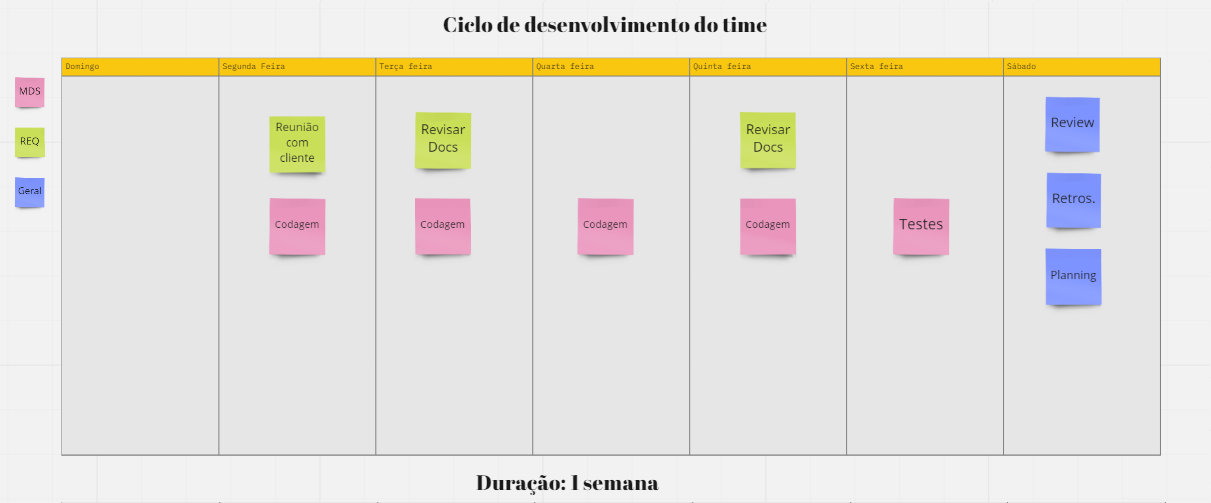
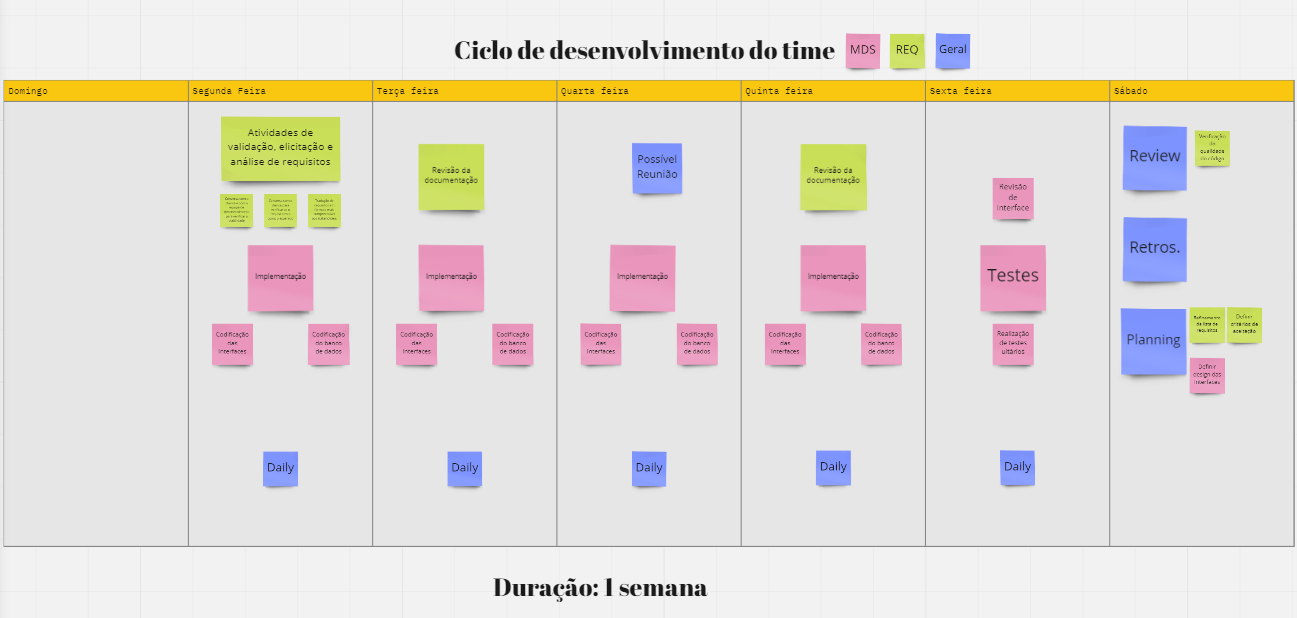
Refatora seção de MVP's e Doc de Visão

diff --git a/docs/visaoProdutoProjeto.md b/docs/visaoProdutoProjeto.md
@@ -111,7 +111,7 @@ O processo da engenharia de requisitos será feito por uma abordagem ágil, onde
 | Atividade                                               | Método               | Ferramenta   | Entrega                          |
 | ------------------------------------------------------- | -------------------- | ------------ | -------------------------------- |
 | Pesquisa sobre o tema do projeto e seu campo de atuação | Pesquisa             | Google       | Conhecimento sobre o produto     |
-| Conversa com o cliente                                  | Entrevista e reunião | Google meets | Lista de requisitos preliminares |
+| Conversa com o cliente para coleta de suas necessidades                               | Entrevista e reunião | Google meets | Lista de requisitos preliminares |
 
 ### 4.2 Análise de Requisitos
 
@@ -128,6 +128,7 @@ O processo da engenharia de requisitos será feito por uma abordagem ágil, onde
 | --------------------------------------------------------------------- | ----------------------- | ------------------------- | ----------------------------------------------------------------------------------------------- |
 | Tradução de requisitos em formato mais compreensível aos stakeholders | Linguagem natural       | Requisitos bem descritos  |
 | Listagem de requisitos encontrados da fase de análise                 | Definição em categorias | GitHub Pages, Google Docs | Lista de requisitos documentados e seus tipos (não funcional e funcional), o Backlog do projeto |
+| Revisão de documentação para encontrar e corrigir possíveis falhas | Reunião | GitHub Pages | Documentação revisada |
 
 ### 4.4 Verificação e Validação de Requisitos
 
@@ -149,11 +150,35 @@ O processo da engenharia de requisitos será feito por uma abordagem ágil, onde
   ![Ciclo Desenvolvimento](./img/ciclo_desenvolvimento.png) 
 <br>
 
-## 5 REFERÊNCIAS BIBLIOGRÁFICAS
+## 5 BACKLOG DO PRODUTO
+
+| EPICO | FEATURE | US |
+| :---  | :--- | :--- |
+| PAULA | (F1) Gerar certificado | (F1US1) *Eu como usuário quero, após a conclusão de todas as atividades, receber um certificado para comprovar minha aprendizagem* |
+| | (F2) Possuir aba de lições | (F2US1) *Eu como usuário quero acessar as lições disponíveis no aplicativo para realizá-las* |
+| | | (F2US2) *Eu como usuário, gostaria de  visualizar o progresso de término das lições do aplicativo para me sentir orientado* |
+| | (F3) Visualizar próprio perfil | (F3US1) *Eu como usuário quero acessar as configurações do aplicativo* |
+| | | (F3US2) *Eu como usuário quero visualizar o meu perfil com todos as recompensas ganhas, dados e certificados* |
+| | (F4) Possuir lembrete/notificações de tarefas | (F4US1) *Eu como usuário, gostaria de receber lembretes com mensagens de motivação* 
+| | | (F4US2) *Eu como usuário, gostaria de receber lembretes para me recordar de realizar as lições*|
+| | (F5) Possuir atividades | (F5US1) *Eu como usuário, gostaria de atividades para las realiza afim de concluir a lição*|
+| | | (F5US2) *Eu como usuário quero acessar as atividades no aplicativo através de uma aba para visualiza-las *|
+| | | (F5US3) *Eu como usuário gostaria atividades de visualizar fotos e descrever palavras corretas para contribuir para com o meu processo de aprendizagem*|
+| | | (F5US4) *Eu como usuário, gostaria de atividades de escrever para contribuir com meu processo de aprendizagem/alfabetização*|
+| | (F6) Realizar Login | (F6US1) *Eu como usuário quero poder recuperar minha senha para voltar a ter acesso à plataforma* |
+| | | (F6US2) *Eu como usuário quero poder fazer login na plataforma com os dados do meu cadastro para ter acesso ao conteúdo do aplicativo*|
+| | (F7) Possuir sistema de recompensas | (F7US1) *Eu como usuário quero receber recompensas dentro do aplicativo diariamente por login*|
+| | | (F7US2) *Eu como usuário quero receber recompensas dentro do aplicativo após a execução de alguma atividade*|
+| | (F8) Realizar Cadastro | (F8US1) *Eu como usuário quero que meu progresso seja salvo para não perder o que já fiz dentro do aplicativo* |
+| | | (F8US2) *Eu como usuário, gostaria de poder me cadastrar para ter acesso ao conteúdo do aplicativo* |
+| | | (F8US3) *Eu como usuário quero poder cadastrar um apelido para se referir a mim* |
+
+
+## 6 REFERÊNCIAS BIBLIOGRÁFICAS
 
 > [1]. Sommerville, Software Engineering, 2004 <br> [2]. P. Bourque, SWEBOK Guide Call for Reviewers, May 2003. <br>  [3]. Ambler, S., Agile Modeling, Wiley, 2002. <br>
 
-## 6 Histórico de Revisão
+## 7 Histórico de Revisão
 
 | Data       | Versão	| Descrição | Autor |
 | ---------- | ------ | --------- | -----
@@ -168,3 +193,4 @@ O processo da engenharia de requisitos será feito por uma abordagem ágil, onde
 | 03/08/2022 | 1.7 | Preenche campos de lições aprendidas e reformula ciclo de desenvolvimento e de ER | Cristian Furtado
 | 03/08/2022 | 1.8 | Reformula as sprints e a matriz de comunicação | Cristian Furtado
 | 11/08/2022 | 1.9 | Refatora o visão retirando as definições das sprints | Cristian Furtado
+| 13/08/2022 | 2.0 | Adiciona o Product Backlog ao docunmento de visão | Cristian Furtado

diff --git a/docs/mvps.md b/docs/mvps.md
@@ -1,12 +1,32 @@
-### MVP1:
-- RF1: Cadastrar usuário
-- RF2: Login de usuário
-- RF3: Realizar (2) lições: Vogais e Consoantes
-- RF4: Visualizar Progresso
-- RF5: Visualizar informações do perfil
+### **MVP1**
 
-### MVP2:
-- RF8: Mostrar notificações no celular
-- RF6: Visualizar recompensas
-- RF3: Realizar (2) lições: Silabas e Palavras
-- RF7: Gerar certificados
+1. (F8) Realizar Cadastro:
+    * (F8US2): Eu como usuário, gostaria de poder me cadastrar para ter acesso ao conteúdo do aplicativo
+    * (F8US3): Eu como usuário quero poder cadastrar um apelido para se referir a mim
+
+2. (F6) Realizar Login:
+    * (F6US2): Eu como usuário quero poder fazer login na plataforma com os dados do meu cadastro para ter acesso ao conteúdo do aplicativo
+
+3. (F2) Possuir abas de lições:
+    * (F2US1): Eu como usuário quero acessar as lições disponíveis no aplicativo para realizá-las (Lições de Vogais e Consoantes)
+    * (F2US2): Eu como usuário, gostaria de visualizar o progresso de término das lições do aplicativo para me sentir orientado
+
+4. (F3) Visualizar Perfil
+    * (F3US2): Eu como usuário quero visualizar o meu perfil com todos as recompensas ganhas, dados e certificados
+
+
+### **MVP2**
+
+1. (F4) Possuir lembrete/notificações de tarefas:
+    * (F4US1): Eu como usuário, gostaria de receber lembretes com mensagens de motivação
+    * (F4US2): Eu como usuário, gostaria de receber lembretes para me recordar de realizar as lições
+
+2. (F7) Possuir sistema de recompensas:
+    * (F7US2): Eu como usuário quero receber recompensas dentro do aplicativo após a execução de alguma atividade
+
+3. (F2) Possuir abas de lições:
+    * (F2US1): Eu como usuário quero acessar as lições disponíveis no aplicativo para realizá-las (Lições de Silabas e Palavras)
+
+4. (F1) Gerar certificado:
+    * (F1US1): Eu como usuário quero, após a conclusão de todas as atividades, receber um certificado para comprovar minha aprendizagem
+    
